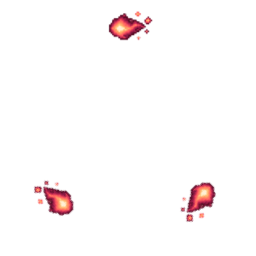
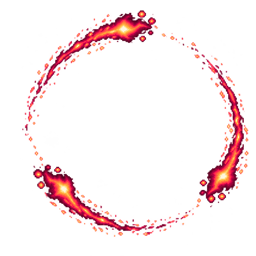
art: extend number aura fireball trails

Changed region(s): [[0.125, 0.125, 0.9688, 0.9375], [0.0938, 0.0312, 0.625, 0.5625]]

diff --git a/Docs/presentation-art-preview.html b/Docs/presentation-art-preview.html
@@ -139,7 +139,7 @@
     <section>
       <div class="section-title">
         <h2>技能 VFX の対比</h2>
-        <span class="section-note">左が実装参照PNG、右が未接続の候補です。下位・中位・上位は緑・金・赤、弱・中・強は火の玉1・2・3個で表します。実装の反時計回りの軌道に合わせて尾を反対側へ流し、周回の動きは承認後に接続します。</span>
+        <span class="section-note">左が実装参照PNG、右が未接続の候補です。下位・中位・上位は緑・金・赤、弱・中・強は火の玉1・2・3個で表します。実装の反時計回りの軌道に合わせ、尾を反対側へ長く円弧状に流します。三つ版は120度間隔の尾でほぼ一周を描き、中央の駒のための余白を残します。</span>
       </div>
       <div id="vfx-comparisons" class="comparison-list"></div>
     </section>
@@ -148,7 +148,7 @@
   <script>
     const root = 'review-assets/';
     // Keep local file previews from retaining an older candidate after an art revision.
-    const previewRevision = '20261004-v12';
+    const previewRevision = '20261004-v13';
     const pieces = [
       ['一', 'Art/Generated/CharacterIcons/icon_01_1.png'], ['二', 'Art/Generated/CharacterIcons/icon_02_2.png'], ['三', 'Art/Generated/CharacterIcons/icon_03_3.png'],
       ['四', 'Art/Generated/CharacterIcons/icon_04_4.png'], ['五', 'Art/Generated/CharacterIcons/icon_05_5.png'], ['六', 'Art/Generated/CharacterIcons/icon_06_6.png'],

diff --git a/Docs/Audio/VFX_AnimatedAssetBrief.md b/Docs/Audio/VFX_AnimatedAssetBrief.md
@@ -128,7 +128,7 @@ Use alpha fade and changing scale rather than only swapping colors. The first an
 - VFX はコンタクトシートや共通スプライトにまとめず、技能フォルダごとに一枚ずつ下書きを用意する。プレビューでは駒モチーフと並べて、透過、中心原点、余白、最小表示時の輪郭を個別に確認する。
 - 既存 VFX に対応するドット絵版は、新規の解釈で描き直さない。元の PNG を編集入力にし、対象物、角度、シルエット、キャンバス内の位置、透明余白、右向きなどの向きを固定したうえで、描画だけをドット絵へ変換する。とくに水は現行どおり水玉、盾は木札と墨線の和風意匠を維持する。馬は右端の目立つ欠けだけを一続きの砂埃へ補修してよく、鳥は現行の三枚の淡い羽を維持し、黒い縁取りを足さない。
 - 今回の全技能候補は、ランタイムが使う代表 PNG を 4 分の 1 程度へ縮小してから最近傍で元サイズへ戻す。透明度、原点、余白、実装時の向きを保持し、候補同士で別の画像を流用しない。
-- 数字の代表エフェクトは、現在の円形オーラを中央の駒を空けた小さな火の玉の周回表現へ置き換える候補を作る。下位・中位・上位はそれぞれ緑・金・赤で区別し、弱・中・強はそれぞれ火の玉一つ・二つ・三つで表す。素材内にラベルや文字は入れない。火の玉は外周に等間隔で置き、既存の共通 VFX モーションに合わせて反時計回りに周回する。火球の頭を進行方向へ向け、尾はその反対側へ接線方向に流す。
+- 数字の代表エフェクトは、現在の円形オーラを中央の駒を空けた小さな火の玉の周回表現へ置き換える候補を作る。下位・中位・上位はそれぞれ緑・金・赤で区別し、弱・中・強はそれぞれ火の玉一つ・二つ・三つで表す。素材内にラベルや文字は入れない。火の玉は外周に等間隔で置き、既存の共通 VFX モーションに合わせて反時計回りに周回する。火球の頭を進行方向へ向け、尾はその反対側へ円弧状に長く流す。三つ版では120度間隔の三つの長い尾がほぼ一周を描き、中心の駒は空けたまま回転方向を明確にする。
 
 - Aim for a rugged shogi-board fantasy style: carved wood, forged iron, worn leather, paper, soil, smoke, sparks, embers, and water droplets.
 - Use directional light, contact shadows, debris, dust, and practical-looking impact flashes instead of sci-fi beams.
